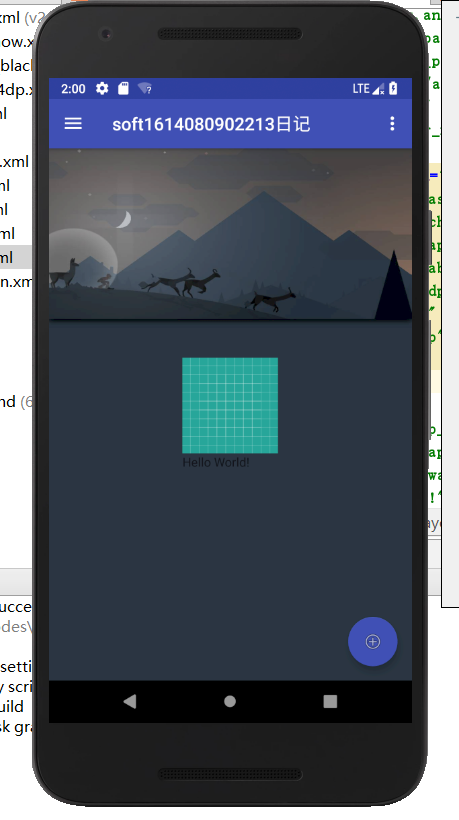
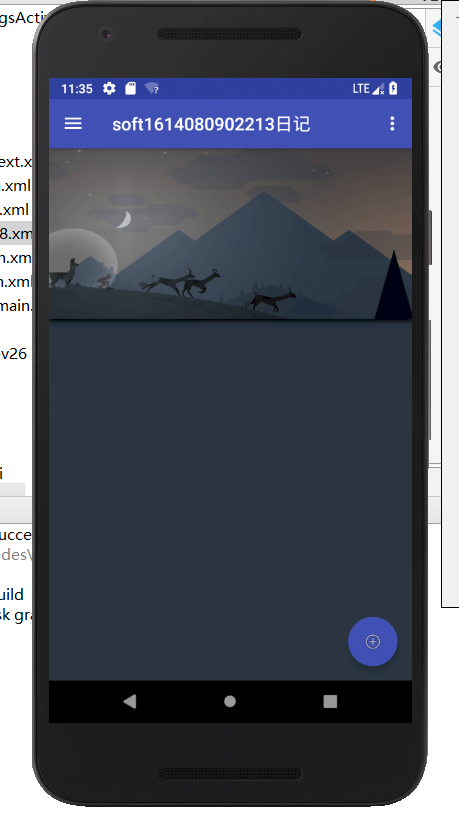
提交第四次和第五次实验

diff --git a/soft1614080902213/soft1614080902213activity/app/src/main/java/hzuapps/edu/soft1614080902213/ContextActivity.java b/soft1614080902213/soft1614080902213activity/app/src/main/java/hzuapps/edu/soft1614080902213/ContextActivity.java
@@ -1,13 +1,117 @@
 package hzuapps.edu.soft1614080902213;
 
-import android.support.v7.app.AppCompatActivity;
+import android.content.Intent;
+import android.widget.EditText;
 import android.os.Bundle;
-
+import android.support.design.widget.FloatingActionButton;
+import android.support.design.widget.Snackbar;
+import android.support.v7.app.AppCompatActivity;
+import android.support.v7.widget.Toolbar;
+import android.view.View;
+import android.widget.Button;
+import android.widget.Toast;
+import java.io.*;
+import android.util.Log;
+import android.os.Environment;
+import android.content.Context;
 public class ContextActivity extends AppCompatActivity {
+    public static final String DIRECTORY = "demo";
+    public static final String FILENAME = "file_demo.txt";
 
+    public static final String TAG = ContextActivity.class.getSimpleName();
     @Override
     protected void onCreate(Bundle savedInstanceState) {
         super.onCreate(savedInstanceState);
-        setContentView(R.layout.activity_context);
+        setContentView(R.layout.activity_main8);
+        Toolbar toolbar = (Toolbar) findViewById(R.id.toolbar);
+
+        Button btnOpen1 = (Button) findViewById(R.id.button10);
+        btnOpen1.setOnClickListener(new View.OnClickListener() {
+            @Override
+            public void onClick(View view) {
+                Intent intent = new Intent(ContextActivity.this,MainActivity.class);
+                startActivity(intent);
+
+            }
+        });
+        final EditText tx = (EditText) findViewById(R.id.editText3);
+        Button btnOpen2 = (Button) findViewById(R.id.button9);
+        btnOpen2.setOnClickListener(new View.OnClickListener() {
+            @Override
+            public void onClick(View view) {
+                String s = tx.getText().toString();
+                saveTextIntoInternalStorage(s);
+            }
+
+        });
     }
+
+
+
+    private void saveTextIntoInternalStorage(String text) {
+        // 获取内部存储目录
+        File dir = this.getFilesDir();
+        File file = new File(dir, FILENAME);
+//        try {
+//            File = File.createTempFile(FILENAME, null, dir);
+//        } catch (IOException e) {
+//            e.printStackTrace();
+//        }
+
+        if (file.exists()) { // 判断文件是否存在
+            Log.i(TAG, file.getAbsolutePath());
+            Log.i(TAG, file.length() + ""); // bytes*1024=kb *1024 MB
+            Log.i(TAG, file.isFile() + "");
+            file.canRead();
+            file.canWrite();
+            file.canExecute();
+
+            file.getFreeSpace();
+            file.getTotalSpace();
+        }
+
+        FileOutputStream fos = null;  // 字节流  | char | cn : gbk 2 bytes, utf8 3 bytes
+
+        try { // 使用 API 打开输出流
+            fos = openFileOutput(FILENAME, MODE_PRIVATE);
+                fos.write(text.getBytes()); // 写入内容
+                //  fos.close(); // 关闭流
+
+            Toast.makeText(ContextActivity.this," 数据保存成功 ",Toast.LENGTH_SHORT).show();
+        } catch (FileNotFoundException e) {
+            e.printStackTrace();
+            Toast.makeText(ContextActivity.this," 文件建立失败 ",Toast.LENGTH_SHORT).show();
+        } catch (IOException e) {
+            e.printStackTrace();
+            Toast.makeText(ContextActivity.this," 保存失败 ",Toast.LENGTH_SHORT).show();
+        } finally {
+            try {
+                fos.close();
+            } catch (IOException e) {
+                e.printStackTrace();
+            }
+        }
+
+        FileReader reader = null; // char
+
+        try {
+            reader = new FileReader(file.getAbsoluteFile());
+            BufferedReader bReader = new BufferedReader(reader);
+            String line = bReader.readLine();
+            Log.i(TAG, " 从文件读取的内容: " + line);
+            Toast.makeText(ContextActivity.this," 数据读取成功 ",Toast.LENGTH_SHORT).show();
+            bReader.close();
+            reader.close();
+        } catch (FileNotFoundException e) {
+            e.printStackTrace();
+        } catch (IOException e) {
+            e.printStackTrace();
+        }
+    }
+
+
+
 }
+
+
+

diff --git a/soft1614080902213/第四次实验.md b/soft1614080902213/第四次实验.md
@@ -1,0 +1,22 @@
+# 第四次实验
+
+## 1. 实验目标
+
+- （1）根据选题要求设计界面布局及控件使用；
+- （2）布局 xml 及界面控制操作代码提交并截图；
+- （3）将应用运行结果截图。
+
+## 2. 实验步骤
+
+- （1）在首页添加了添加日记按钮，点击后跳转到日记页面。
+- （2）在日记页面 ConstraintLayout 里分别创建了一个 LinearLayout 和一个 RelativeLayout。
+- （3）在日记页面增加了保存和取消这 两个按钮，点击后分别执行保存日记到txt文件和退出操作。
+- （4）在日记页面增加了一个 EditText，用于储存文本内容。
+
+## 3. 实验结果
+
+[![image]()](https://github.com/SummerMotion/android-labs-2018/blob/master/soft1614080902216/%E5%AE%9E%E9%AA%8C4%E7%BB%93%E6%9E%9C.jpg)
+
+## 4. 实验体会
+
+这个实验我做了很久，上网查了之后，才知道要一些东西要怎么做。总体来说学到了不少。

diff --git a/soft1614080902213/第五次实验.md b/soft1614080902213/第五次实验.md
@@ -1,0 +1,28 @@
+# 第五次实验
+
+## 1. 实验目标
+
+- 掌握在 Android App 中存储数据。
+
+## 2. 实验内容
+
+- (1). 将应用产生的数据保存到文件存储中；
+- (2). 说明使用的文件存储方式：内部 or 外部；
+- (3). 将运行结果截图。
+
+## 3. 实验步骤
+
+- (1). 添加了一个 textview。
+- (2). 把 textview 的内容赋给 string 对象。
+- (3). 我用 FileOutputStream 把 String 的内容写到文本中，用的是内部存储。
+- (4). 再把数据从文本中读出来显示到 textView。
+
+## 4. 实验结果
+
+[[!image]()]()
+
+[![image]()
+
+## 5. 实验体会
+
+由于很久没打过 java 了，很多都有点忘记了，这个实验让我把回去把 java.IO 这方面又看了一下。
